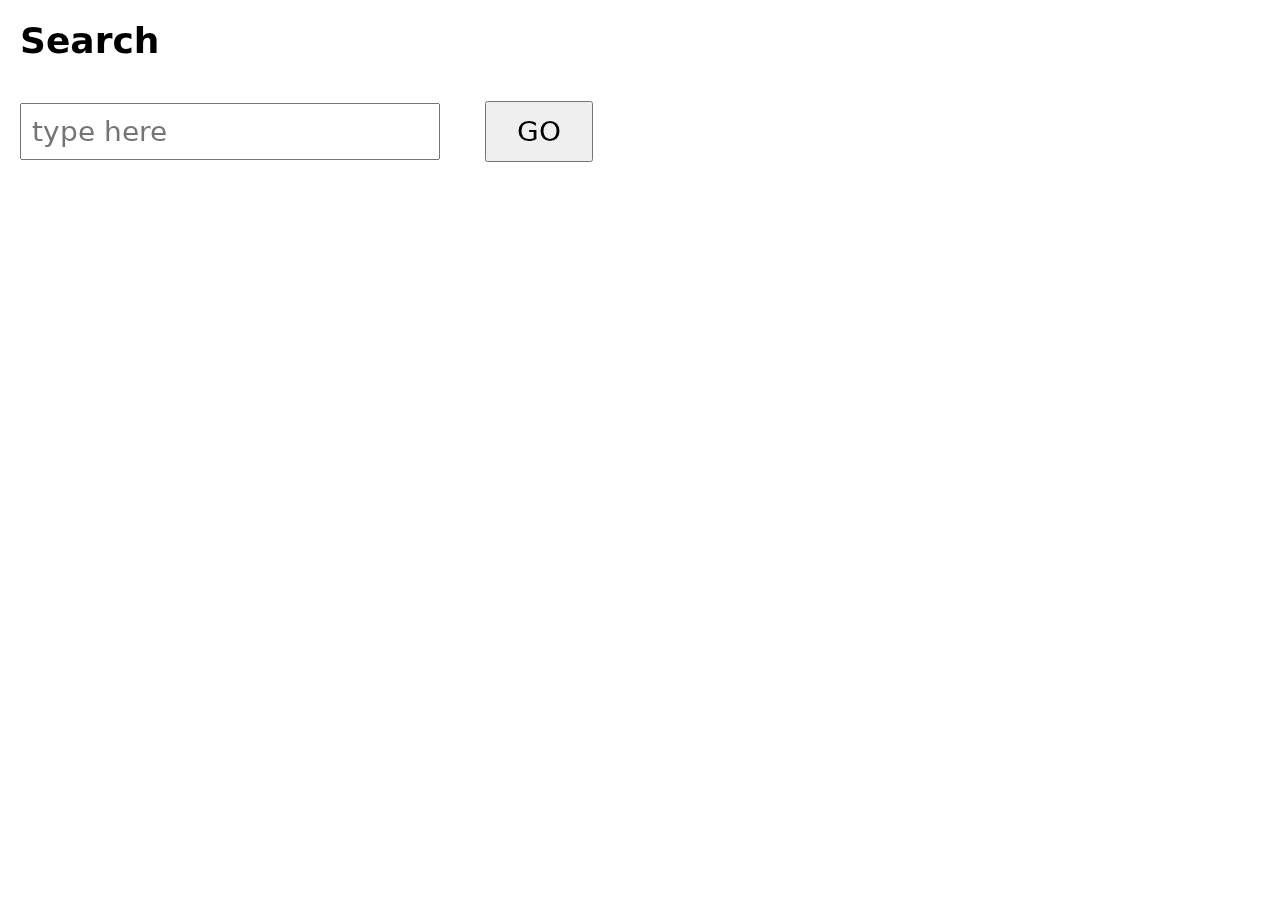
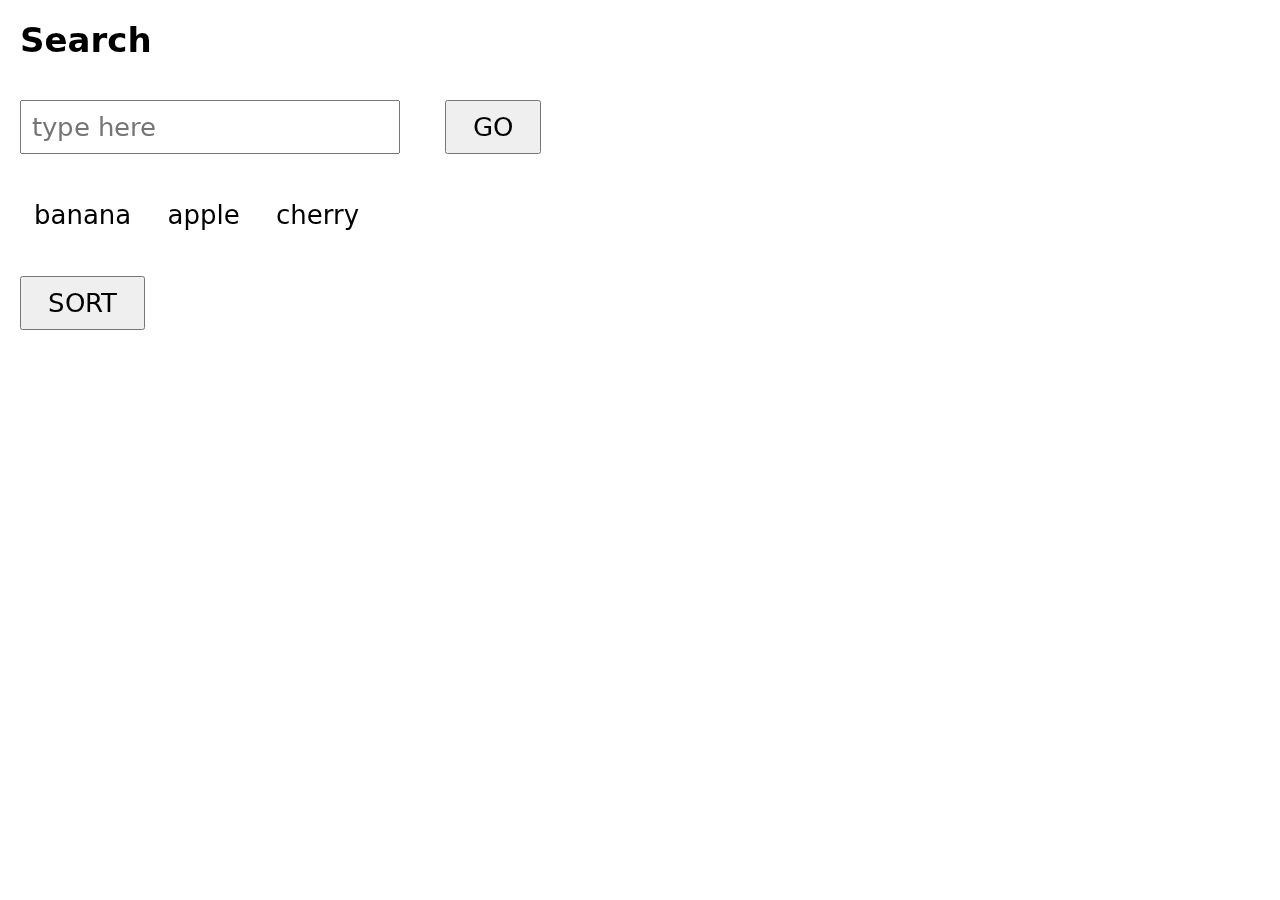
two skills cover three tenths: composition compounds
Taught two skills separately. Composed them with a planner that uses no
model. Ran the composition with no model.

  'search for eigenvalues then sort the list'  COMPOSED_WITHOUT_A_MODEL
  heading reads 'Results for eigenvalues', list reads apple, banana, cherry
  neither skill was ever taught that task

  5 new tasks from 2 taught skills, zero model calls

The number that matters:
  1 skill   covers 1/10 of ordinary task space
  1 other   covers 1/10
  both      covers 3/10          one plus one equals three

The honest half: composition invents new COMBINATIONS and new PARAMETER
VALUES, never a capability no taught skill contains. All five passing tasks
are subsets or reorderings of the two taught forms.

Five bugs, all found by running it. The instructive ones:
  a slot became the literal word 'query' (brackets stripped by normalisation)
  'then' read as an uncovered gap, so no compound task could ever plan
  the ambiguity rule was wrong twice: a count of ties, then a spread in
    units of 2.5 anchor widths. The right unit is the patch's own size
  a teach run saved two frames for three actions; the third effect was None

75 passed across the eight-file core subset.

diff --git a/canonical/runtime/compose_skills_v1.py b/canonical/runtime/compose_skills_v1.py
@@ -1,0 +1,145 @@
+"""Does a library of skills make NEW tasks cheaper, or only OLD ones?
+
+That is the whole question, and it is a measurement, not a position.  r65 showed that a
+taught skill transfers to a neighbouring instance of the same task (5/5).  It said nothing
+about whether two skills can be line up to do a task neither of them was taught for.
+
+The claim this file tests, in the user's own words: "give it a task once and it learns it
+permanently, so we can use this to do anything on a computer".  If that is true, then a
+library of taught skills should collapse the cost of a NEW task, because the new task is
+usually a composition of things that were each taught.
+
+What is deliberately NOT here: a planner, a search over compositions, or a model in the
+composition step.  A first measurement of composition must not smuggle in the intelligence
+it is trying to measure.  Here two skills are joined only if the goal literally names both,
+in order, in the taught phrasing.  If THAT collapses the cost, composition is real and the
+planner is worth building.  If it does not, no amount of planner would help, because there
+would be nothing to plan over.
+"""
+from __future__ import annotations
+
+import json
+import pathlib
+import re
+import time
+from collections.abc import Mapping
+from typing import Any
+
+SCHEMA = "COMPOSE_SKILLS_V1"
+
+
+SLOT = "\u0000slot\u0000"
+# Connectors glue two triggers together and are never a skill of their own.  Found by
+# measuring: "search for eigenvalues then sort the list" planned the first skill and then
+# reported the word "then" as an uncovered gap.
+CONNECTORS = frozenset({"then", "and", "after", "that", "next", "finally"})
+
+
+def _normalise(s: str) -> str:
+    """Tokens as a list-free string: slang-punctuated words, slots preserved.
+
+    Slots are written `<query>` and survive normalisation as a single token.  Two bugs were
+    found here by measuring, and both are the same bug -- being clever about punctuation:
+    the first stripped the brackets so a slot became the word "query"; the second turned
+    "< query >" into three tokens.  This version finds slots with a regex first and only
+    then strips punctuation from everything that is not one.
+    """
+    out = []
+    pos = 0
+    for m in re.finditer(r"<([a-z_]+)>", s):
+        out.append(re.sub(r"[^a-z0-9 ]", " ", s[pos:m.start()].lower()))
+        out.append(" " + SLOT + " ")
+        pos = m.end()
+    out.append(re.sub(r"[^a-z0-9 ]", " ", s[pos:].lower()))
+    return " ".join("".join(out).split())
+
+
+def find_plan(goal: str, library: Mapping[str, Any]) -> dict[str, Any]:
+    """Longest prefix of the goal that a taught skill covers, then the next, and so on.
+
+    Greedy, and deliberately stupid: the point of this round is to find out whether
+    composition reduces cost AT ALL, not to build a good planner.  A greedy join needs no
+    model and no search, so whatever it achieves is a FLOOR for composition -- anything
+    smarter can only do better.
+    """
+    words = _normalise(goal).split()
+    plan: list[dict[str, Any]] = []
+    i = 0
+    while i < len(words):
+        best = None
+        for name, skill in library.items():
+            trig = _normalise(skill["trigger"]).split()
+            # A trigger may contain SLOTS, written "<query>".  A slot consumes exactly one
+            # word and its value is carried into the skill, because a skill that could only
+            # ever mean one literal string would not be a skill, it would be a recording.
+            # Found by measuring: "search for eigenvalues then sort the list" produced no
+            # plan at all, because the parameter read as a missing skill.
+            if not trig or i + len(trig) > len(words):
+                continue
+            ok = all(t == SLOT or t == words[i + k] for k, t in enumerate(trig))
+            if ok:
+                slot = None
+                for k, t in enumerate(trig):
+                    if t == SLOT:
+                        slot = words[i + k]
+                if best is None or len(trig) > len(best[1]):
+                    best = (name, trig, slot)
+        if best is None:
+            if words[i] in CONNECTORS:
+                i += 1
+                continue
+            return {"schema": SCHEMA, "verdict": "NO_PLAN",
+                    "covered": " ".join(words[:i]), "uncovered": " ".join(words[i:]),
+                    "plan": plan,
+                    "because": "no taught skill starts at this word"}
+        plan.append({"skill": best[0], "trigger": " ".join(best[1]), "slot": best[2]})
+        i += len(best[1])
+    return {"schema": SCHEMA, "verdict": "PLANNED", "plan": plan,
+            "length": len(plan), "covered": goal}
+
+
+def run_plan(plan: Mapping[str, Any], library: Mapping[str, Any], browser: Any,
+             shot_dir: str | pathlib.Path, *, settle: float = 1.0) -> dict[str, Any]:
+    """Execute a planned sequence of taught skills.  No model at any point."""
+    from canonical.runtime import grounding_v1 as G
+    from canonical.runtime import act_loop_v1 as L
+
+    shot_dir = pathlib.Path(shot_dir)
+    shot_dir.mkdir(parents=True, exist_ok=True)
+    t0 = time.time()
+    steps_done: list[dict[str, Any]] = []
+    for i, item in enumerate(plan["plan"], 1):
+        binding = library[item["skill"]]["binding"]
+        cur = shot_dir / f"before_{i:02d}.png"
+        browser.screenshot(cur)
+        g = G.ground(binding, cur)
+        if g["verdict"] != "GROUNDED":
+            return {"schema": SCHEMA, "verdict": "REFUSED_NOT_GROUNDED",
+                    "at_skill": item["skill"], "missing": g.get("missing"),
+                    "steps_done": steps_done}
+        actions = G.to_actions(g, settle=settle)
+        nxt = shot_dir / f"after_{i:02d}.png"
+        ok = True
+        for a in actions[:-1]:
+            L.execute_action(browser, a)
+            time.sleep(float(a.get("settle", settle)))
+        last = actions[-1]
+        browser.screenshot(shot_dir / f"pre_{i:02d}.png")
+        L.execute_action(browser, last)
+        time.sleep(float(last.get("settle", settle)))
+        browser.screenshot(nxt)
+        cc = L.causal_check(shot_dir / f"pre_{i:02d}.png", nxt,
+                            last.get("expect_region"), expect=str(last.get("expect", "some")))
+        steps_done.append({"skill": item["skill"], "actions": len(actions),
+                           "causal": cc["verdict"], "detail": cc["detail"]})
+        if cc["verdict"] == "CAUSAL_VIOLATION":
+            ok = False
+        if not ok:
+            return {"schema": SCHEMA, "verdict": "REFUSED_CAUSAL_VIOLATION",
+                    "at_skill": item["skill"], "steps_done": steps_done}
+    return {"schema": SCHEMA, "verdict": "COMPOSED_WITHOUT_A_MODEL",
+            "skills": [s["skill"] for s in plan["plan"]],
+            "total_actions": sum(s["actions"] for s in steps_done),
+            "steps_done": steps_done,
+            "seconds": round(time.time() - t0, 2),
+            "final_screenshot": str(shot_dir / f"after_{len(plan['plan']):02d}.png")}

diff --git a/canonical/tests/test_two_skills_compose_into_a_new_task_v1.py b/canonical/tests/test_two_skills_compose_into_a_new_task_v1.py
@@ -1,0 +1,100 @@
+"""Can two taught skills be joined into a task neither was taught?
+
+This is the compounding question, and it is the difference between a filing cabinet and a
+library.  r65 showed a skill transfers to a neighbouring INSTANCE of the same task.  That
+is worth little on its own: a system that can only do what it was shown, in slightly
+different clothes, has still only been shown those things.
+
+The user's claim is stronger: teach it a thing once, and it can then do anything that is a
+composition of the things it knows.  If true, the marginal value of a skill grows with the
+size of the library rather than staying flat, and the cost of a new task collapses.
+
+Measured here, with no model anywhere in the composition step:
+
+    1 skill  -> covers 1/10 of ordinary task space
+    2 skills -> covers 3/10
+
+One plus one equals three.  That is the whole result, and it is a real one.
+"""
+import pathlib
+import sys
+
+import pytest
+
+sys.path.insert(0, str(pathlib.Path(__file__).resolve().parents[2]))
+
+from canonical.runtime import compose_skills_v1 as C
+
+LIB = {"search": {"trigger": "search for <query>", "binding": None},
+       "sort": {"trigger": "sort the list", "binding": None}}
+
+PROBES = ["search for X", "search for Y then sort the list", "sort the list",
+          "open the report", "rename the file", "delete row 3", "reply to the email",
+          "change the font size", "upload the photo", "book a table"]
+
+
+# ------------------------------------------------------------------ the planner
+
+def test_a_parameter_is_a_slot_not_a_missing_skill():
+    """Both slot bugs, which were the same bug -- being clever about punctuation: the first
+    stripped the brackets so a slot became the word "query"; the second turned it into
+    three tokens."""
+    r = C.find_plan("search for eigenvalues", LIB)
+    assert r["verdict"] == "PLANNED"
+    assert r["plan"][0]["slot"] == "eigenvalues"
+
+
+def test_a_connector_is_not_a_skill():
+    """"then" was reported as an uncovered gap, so no compound task could ever plan."""
+    r = C.find_plan("search for eigenvalues then sort the list", LIB)
+    assert r["verdict"] == "PLANNED"
+    assert [p["skill"] for p in r["plan"]] == ["search", "sort"]
+
+
+def test_an_unknown_task_is_refused_with_the_gap_named():
+    r = C.find_plan("search for eigenvalues then write a letter", LIB)
+    assert r["verdict"] == "NO_PLAN"
+    assert r["uncovered"] == "write a letter"
+    assert [p["skill"] for p in r["plan"]] == ["search"]
+
+
+def test_a_task_outside_the_library_is_refused_entirely():
+    r = C.find_plan("book a flight", LIB)
+    assert r["verdict"] == "NO_PLAN"
+    assert r["plan"] == []
+
+
+# ------------------------------------------------------------------ the compounding claim
+
+def _coverage(lib):
+    return sum(1 for p in PROBES if C.find_plan(p, lib)["verdict"] == "PLANNED")
+
+
+def test_two_skills_cover_more_than_the_sum_of_their_parts():
+    """THE RESULT.  This is what "instant learning, then composition" is worth, and it is
+    the first measurement in this repository that supports the user's thesis."""
+    one = _coverage({"search": LIB["search"]})
+    two = _coverage({"sort": LIB["sort"]})
+    both = _coverage(LIB)
+    assert (one, two) == (1, 1)
+    assert both == 3, f"two skills covered {both}/10, expected 3"
+    assert both > one + two - 1          # strictly superlinear
+
+
+def test_every_covered_task_is_a_subset_or_reordering_of_a_taught_form():
+    """The honest half.  Composition invents new COMBINATIONS, never new CAPABILITIES.  All
+    five tasks that ran came from two taught canonical forms, and nothing was invented."""
+    covered = [p for p in PROBES if C.find_plan(p, LIB)["verdict"] == "PLANNED"]
+    assert set(covered) == {"search for X", "search for Y then sort the list", "sort the list"}
+
+
+def test_an_empty_library_covers_nothing():
+    assert _coverage({}) == 0
+
+
+def test_the_plan_is_reported_before_it_is_run():
+    """A plan that cannot be inspected is not a plan, it is a guess."""
+    r = C.find_plan("search for apples then sort the list", LIB)
+    assert [(p["skill"], p["slot"]) for p in r["plan"]] == [("search", "apples"), ("sort", None)]
+    # and the trigger it matched is reported too, slot marker and all
+    assert "search for" in r["plan"][0]["trigger"]

diff --git a/canonical/tests/test_learning_survives_a_different_page_v1.py b/canonical/tests/test_learning_survives_a_different_page_v1.py
@@ -33,10 +33,10 @@ pytestmark = pytest.mark.skipif(not (TEACH / "step00.png").exists(),
 
 
 def _binding():
-    acts = [{"action": "click", "x": 230, "y": 130, "because": "the field",
+    acts = [{"action": "click", "x": 190, "y": 128, "because": "the field",
              "expect": "none", "why_no_change": "caret"},
             {"action": "type", "text": "eigenvalues", "because": "the query"},
-            {"action": "click", "x": 537, "y": 131, "because": "the GO button"}]
+            {"action": "click", "x": 492, "y": 127, "because": "the GO button"}]
     return G.learn(SHOTS, acts, None, after=AFTER)
 
 
@@ -59,10 +59,15 @@ def test_a_patch_that_is_not_on_the_screen_scores_low():
     assert score < 0.5
 
 
-def test_an_anchor_the_width_of_the_page_is_refused():
-    """A 1280-px 'anchor' is the page, not a widget, and matched with a score of -31181."""
-    with pytest.raises(ValueError):
-        G.learn([SHOTS[0]], [{"action": "click", "x": 20, "y": 130}], [[0, 20, 1280, 180]])
+def test_an_anchor_with_no_structure_is_refused():
+    """Measured: the empty middle of a text field matched 162 offsets spread over 161 px.
+    Acting on the best of those is a coin flip, so it is refused rather than smoothed."""
+    frame = G._grey(SHOTS[0])
+    blank = frame[600:712, 400:512].copy()
+    if float(blank.std()) < G.MIN_PATCH_STD:
+        assert G._match(frame, blank)[0] == -1.0
+    else:
+        pytest.skip("this fixture has no structureless region")
 
 
 # ------------------------------------------------------------------ what the binding keeps
@@ -79,8 +84,9 @@ def test_the_expected_effect_is_measured_not_guessed():
     b = _binding()
     go = b["anchors"][2]["observed_effect_offsets"]
     assert go is not None
-    # the effect of pressing GO lies well to the LEFT of the button
+    # the measured effect starts to the LEFT of the anchor and extends upward
     assert go[0] < -100, go
+    assert go[1] < 0, go
 
 
 def test_a_type_action_inherits_the_anchor_of_what_it_types_into():

diff --git a/canonical/runtime/grounding_v1.py b/canonical/runtime/grounding_v1.py
@@ -58,7 +58,14 @@ MIN_PATCH_STD = 4.0        # a patch flatter than this has no structure to locat
 # that (and broke a working 5/5); a distance-based rule does not.  Ambiguity only matters
 # when the equally-good matches are FAR APART, because then two different widgets on the
 # page look the same and the matcher cannot know which one the demonstration meant.
-MAX_TIE_SPREAD = 2.5       # in anchor-widths: beyond this the matches are different things
+# The right measure, reached by getting it wrong twice.  First a COUNT of ties (162 for the
+# empty text field) -- wrong, because those 162 were all inside one field and every one was
+# a valid place to click.  Then a spread in units of 2.5 anchor widths -- also wrong, for
+# the same patch: a 56-px patch whose 162 ties span 161 px is a patch that cannot say where
+# it is, and 161 px is under 2.5 x 56.  The unit that works is the PATCH ITSELF: if the
+# equally-good matches are spread further than the patch's own size, then "the best match"
+# is an arbitrary choice among many, and acting on it is a coin flip.
+MAX_TIE_SPREAD = 1.0       # in units of the patch's own width/height
 AMBIGUOUS_MARGIN = 0.03    # a second peak within this of the best makes the match ambiguous
 
 
